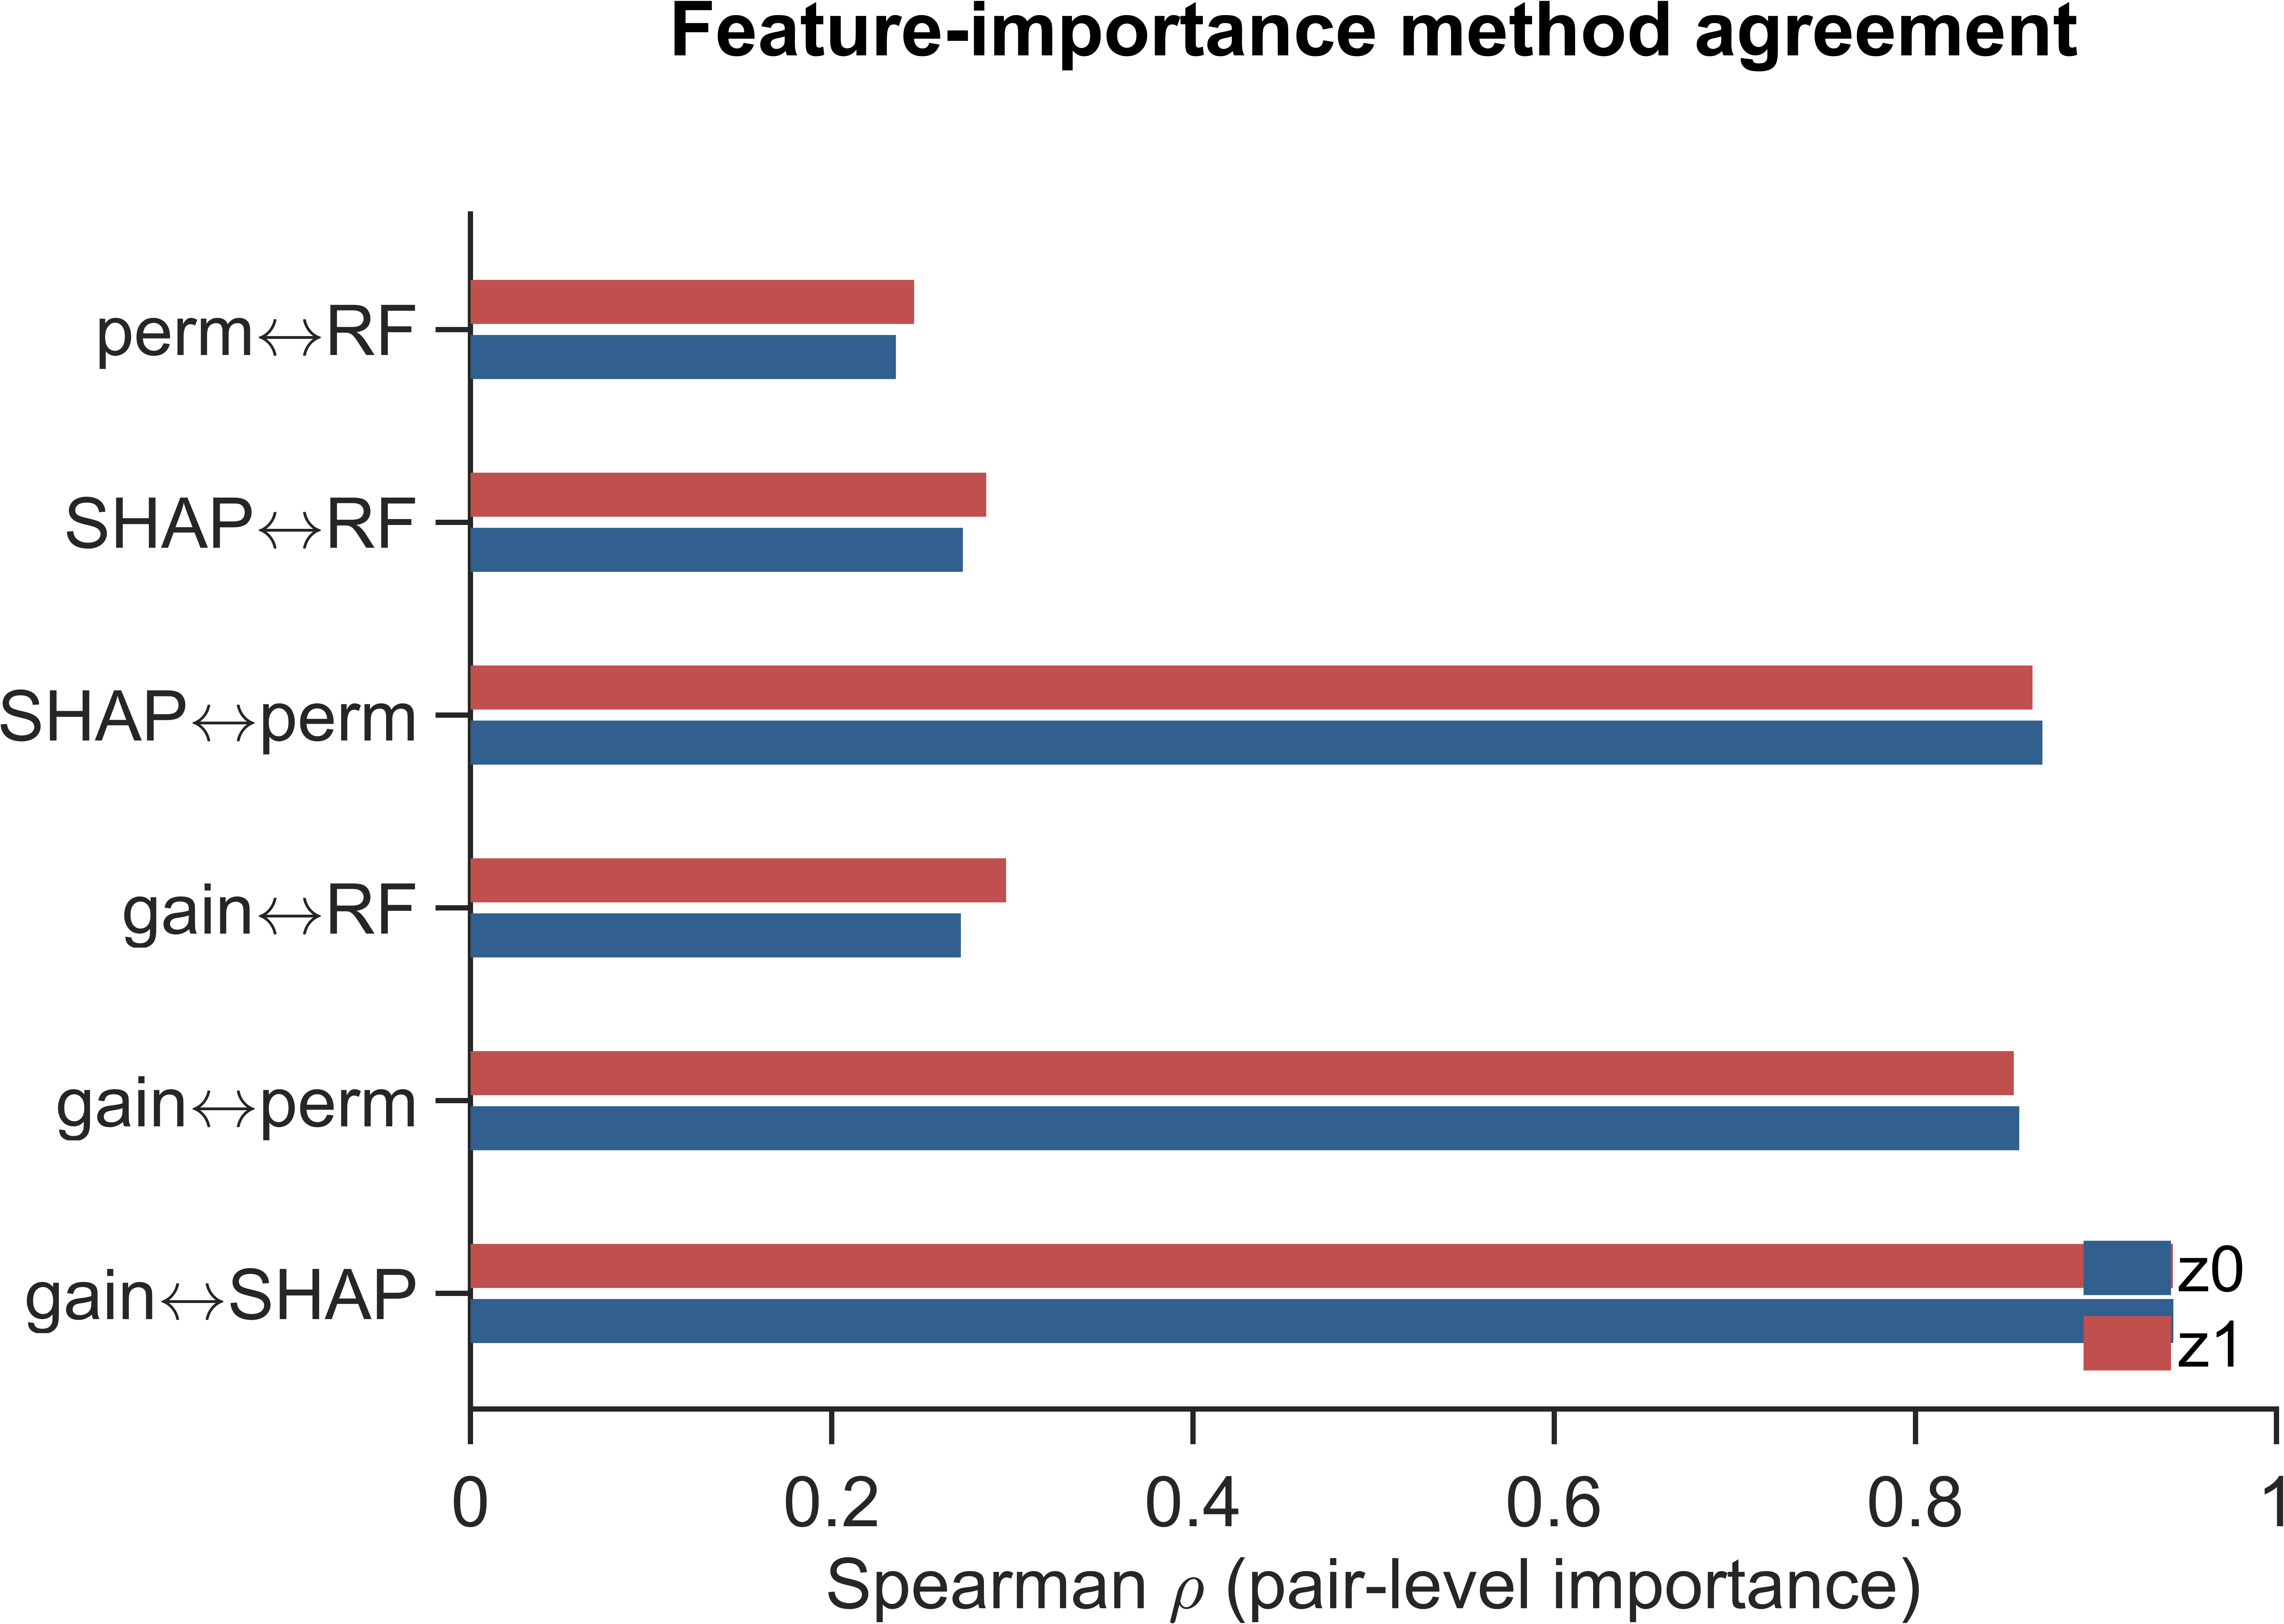
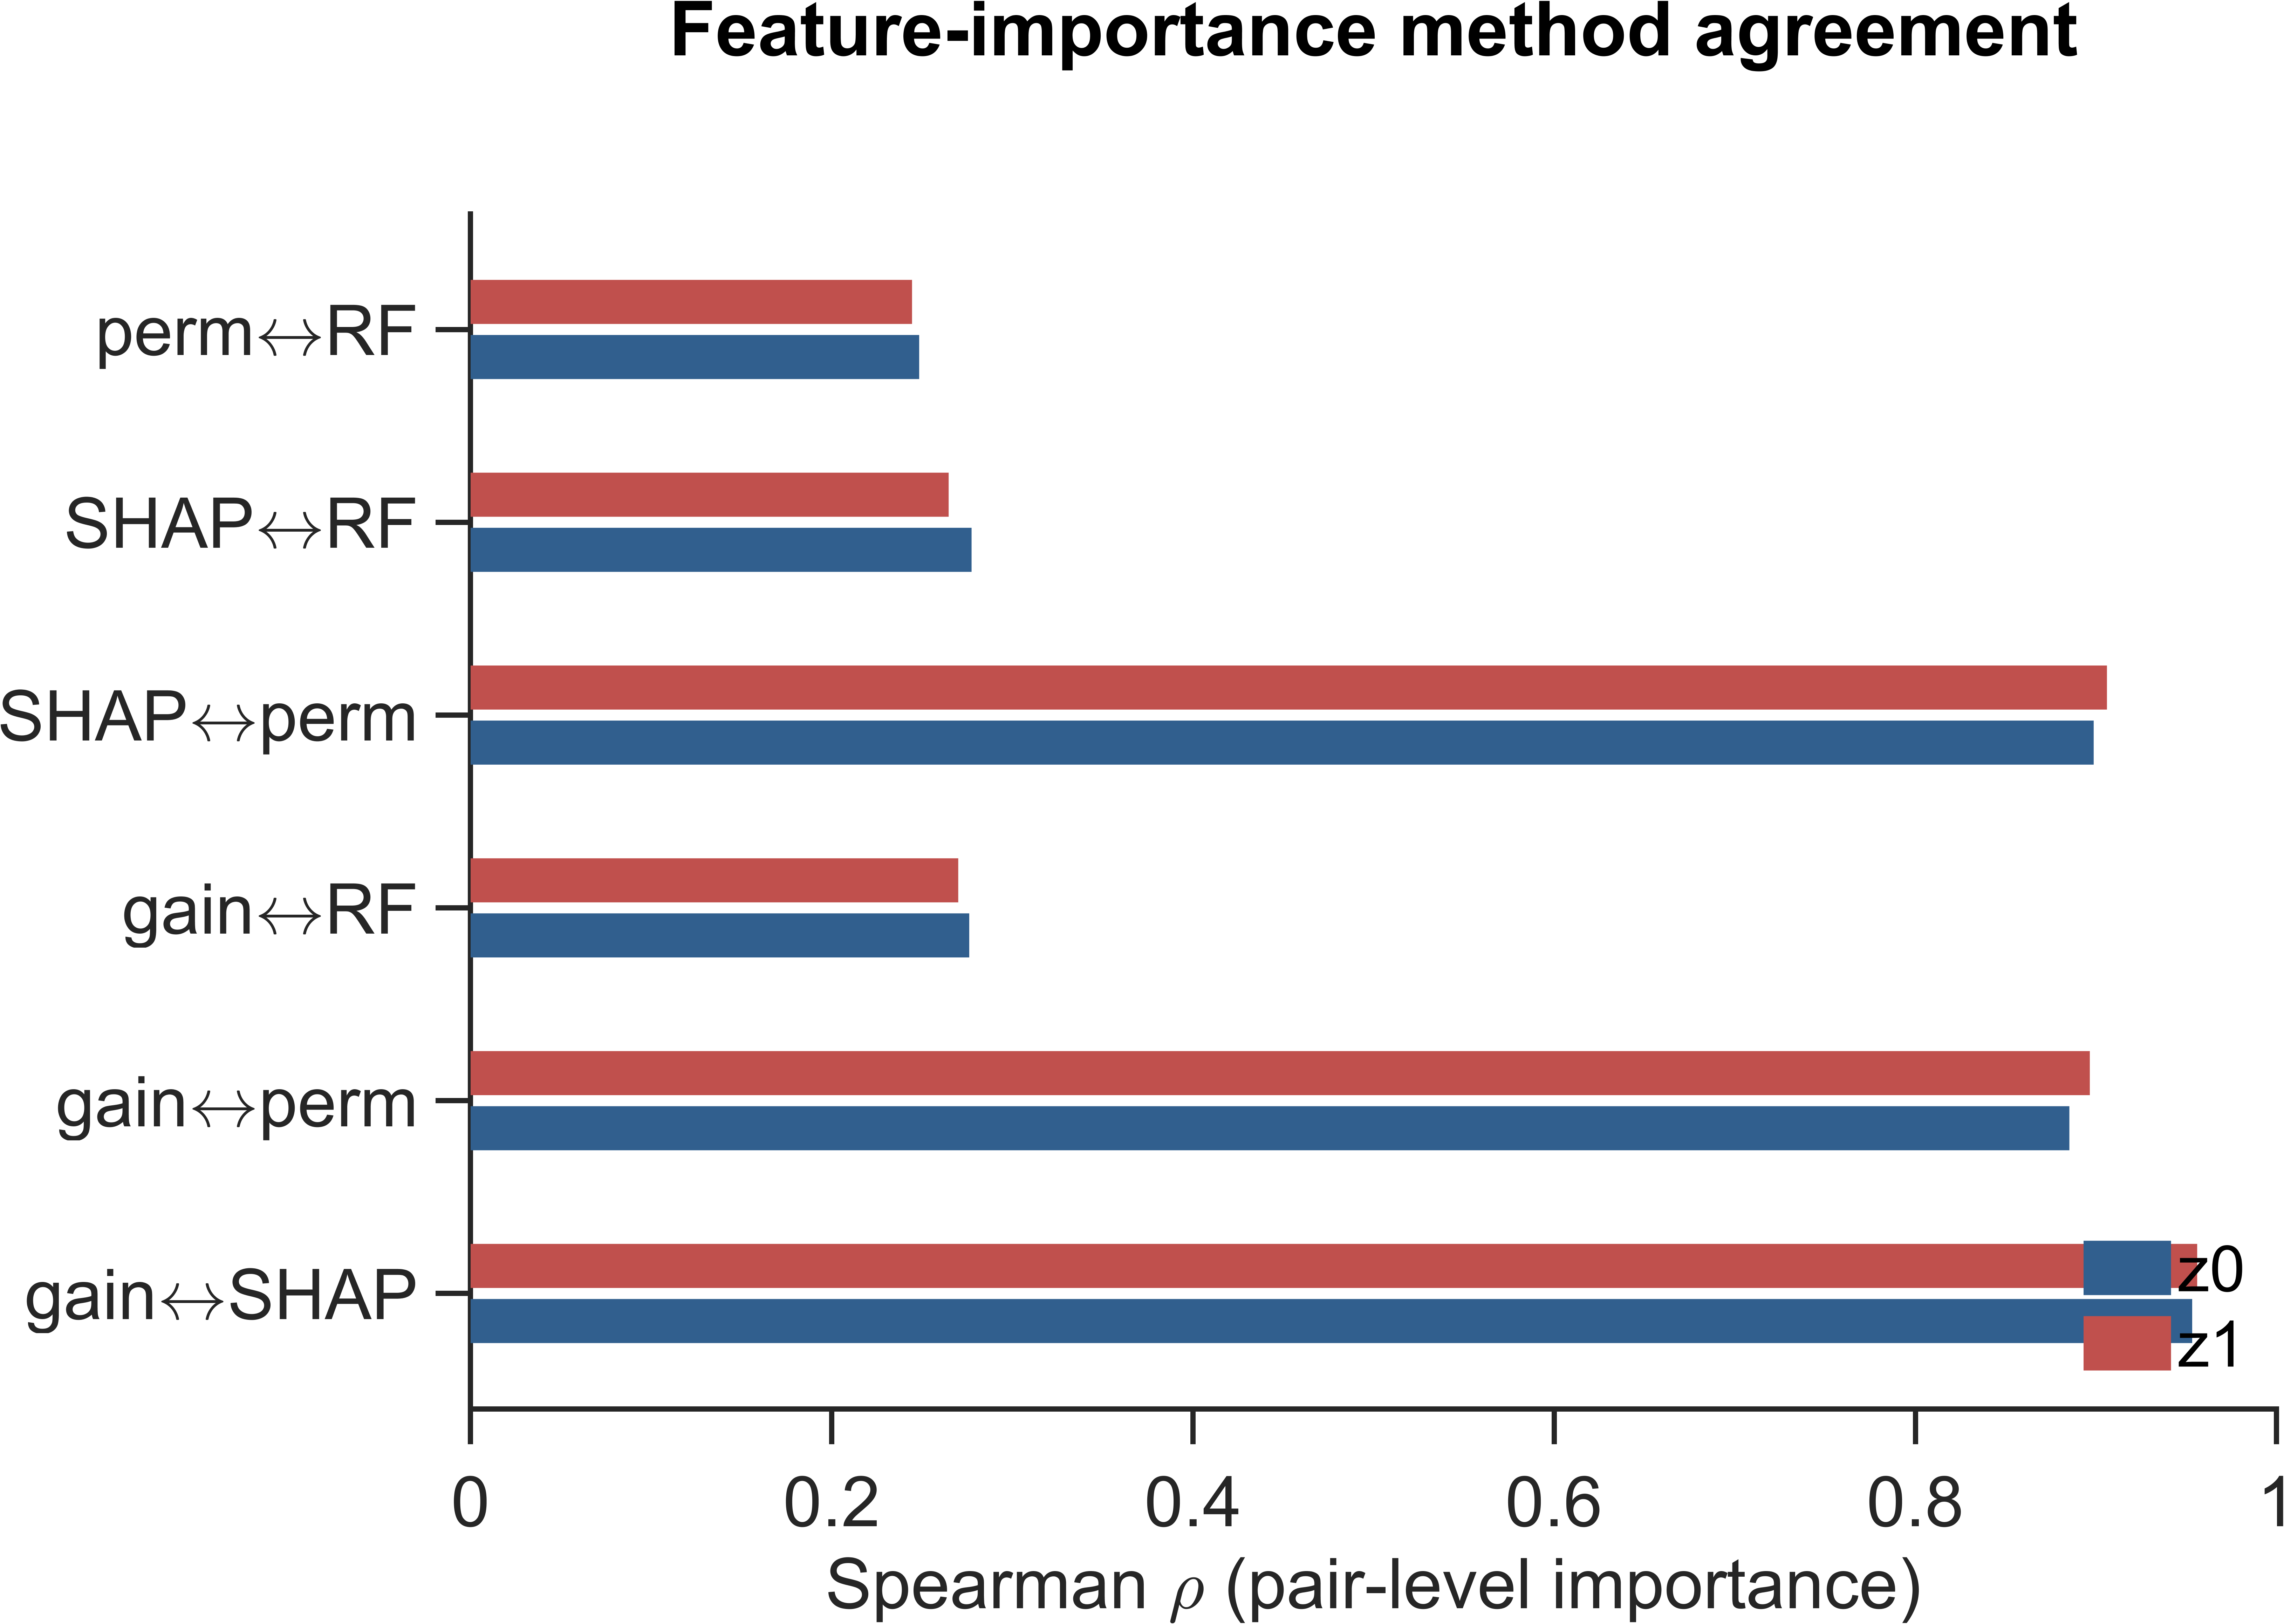
Address external mathematical review: grouped CV, BH correction, E(3) invariance
Statistical corrections following an external maths/stats audit:

- Add code/grouped_cv.py + results/grouped_cv_results.csv. The 90/10 split is by
  chain, so near-duplicate chains of the same protein/deposition straddle it
  (pseudoreplication). Under GroupKFold: random 5-fold 0.894+/-0.005, by PDB entry
  0.859+/-0.010, by gene 0.389+/-0.123. R2=0.915 is an interpolation figure; the
  scaffold->loop mapping is substantially kinase-specific. README/PROVENANCE now
  say so wherever 0.915 appears.
- Mutation screen: 284 populations enumerated, 82 testable, 16 at uncorrected
  p<0.05 but only 7 survive Benjamini-Hochberg q<0.05 (E[false pos] = 4.1 under
  82 tests). Report the BH-corrected count.
- Invariance group is E(3), not SE(3): a distance matrix is invariant to
  reflection too. Documented; "SE(3)" retained only as the model name.
- Table S1 corrected from the complete-map feature-importance rerun: z1's top
  feature is unanimously 525-577 (gatekeeper-preDFG), not an aEF-aG pair.
  z0's 499-641 (aC-aF) is unchanged and still unanimous.
- Cross-method agreement refreshed: residue-level rho 0.76-0.95 (was quoted
  0.86-0.94); pair-level 0.89-0.96 among LightGBM rankings, 0.24-0.28 vs RF.

diff --git a/code/grouped_cv.py b/code/grouped_cv.py
@@ -1,0 +1,36 @@
+"""C4: is the random chain split pseudoreplicated? Compare random vs grouped CV."""
+import sys, numpy as np, pandas as pd
+sys.path.insert(0,"/home/edina/kinase_v91_share/figure_pipeline")
+from predict_v9_lgbm_shap import build_distance_matrix, norm_key
+from sklearn.model_selection import GroupKFold, KFold
+from lightgbm import LGBMRegressor
+from sklearn.metrics import r2_score
+from pathlib import Path
+
+S="/home/edina/kinase_v91_share"
+X, manifest, pairs, frac = build_distance_matrix(
+    Path(f"{S}/data/v9_1_braf_mapped_conserved_residues.csv"),
+    Path(f"{S}/data/manifest_v91.csv"), Path(f"{S}/data/PDBs"),
+    "6UANC", 9999, 0.75)
+lat=pd.read_csv(f"{S}/v91_SE3_latent_seed25.csv",keep_default_na=False)
+lat["chain_key"]=lat["chain_key"].astype(str).str.upper(); lat=lat.set_index("chain_key")
+keys=manifest["chain_key"].astype(str).str.upper().values
+keep=np.array([k in lat.index for k in keys]) & (frac<=0.5)
+X=X[keep]; keys=keys[keep]; man=manifest[keep].reset_index(drop=True)
+Y=lat.loc[list(keys),["z0","z1"]].to_numpy(float)
+col=np.nanmean(X,axis=0); idx=np.where(np.isnan(X)); X[idx]=np.take(col,idx[1])
+print(f"chains={len(X)} features={X.shape[1]}", flush=True)
+
+groups={"random":None,
+        "PDB entry":np.array([k[:4] for k in keys]),
+        "gene":man["gene"].astype(str).values}
+for name,g in groups.items():
+    cv = KFold(5,shuffle=True,random_state=25) if g is None else GroupKFold(5)
+    r2s=[]
+    for tr,te in (cv.split(X) if g is None else cv.split(X,groups=g)):
+        pr=np.column_stack([LGBMRegressor(n_estimators=400,num_leaves=31,verbose=-1,random_state=25)
+                            .fit(X[tr],Y[tr,j]).predict(X[te]) for j in range(2)])
+        ss=((Y[te]-pr)**2).sum(); tot=((Y[te]-Y[te].mean(0))**2).sum()
+        r2s.append(1-ss/tot)
+    r2s=np.array(r2s)
+    print(f"  {name:10s} R2 = {r2s.mean():.3f} +/- {r2s.std():.3f}   folds={np.round(r2s,3)}", flush=True)

diff --git a/README.md b/README.md
@@ -24,10 +24,24 @@ trajectories), tokens, and unrelated analyses.
 | `code/` | core pipeline scripts (dataset → encode → conserved-distance prediction → drug / mutation analyses) |
 
 ## Key results (SE(3) latent, full non-loop conserved scaffold)
-- Conserved-distance → loop-latent prediction **R² = 0.915** (z0 0.939 / z1 0.892), from **128** non-loop residues spanning **both lobes** → **7,455** Cα–Cα distance pairs, **6,523** chains. *(Verified end-to-end 2026-07-16.)*
-- Top predictive distances are **cross-lobe** (αC↔αF 499–641; αEF↔αG 633–702) — the loop's position is read out by the relative arrangement of the two lobes.
-- Four importance methods converge at the residue level (Spearman ρ 0.86–0.94).
-- 16 activation-loop mutations shift significantly; 4 are OncoKB-curated drivers (BRAF V600E, EGFR T790M, FGFR2 K659N, FGFR3 V555M).
+- Conserved-distance → loop-latent prediction **R² = 0.915** (z0 0.939 / z1 0.892) on a **single random chain-level split**, from **128** non-loop residues spanning **both lobes** → **7,455** Cα–Cα distance pairs, **6,523** chains. *(Verified end-to-end 2026-07-16.)*
+- **Read 0.915 as interpolation, not generalisation.** Under grouped cross-validation
+  (`code/grouped_cv.py`, `results/grouped_cv_results.csv`) accuracy degrades monotonically as the
+  grouping tightens: random 5-fold **0.894 ± 0.005** → grouped by PDB entry **0.859 ± 0.010** →
+  **grouped by gene 0.389 ± 0.123**. The scaffold→loop relationship is real (whole depositions held
+  out still gives 0.859) but a substantial component of it is **kinase-specific rather than
+  transferable**. Quote the gene-grouped number for "predict a novel kinase".
+- Top predictive distances are **cross-lobe**: αC↔αF 499–641 is rank 1 for z0 under all four
+  importance methods; for z1 the top pair is the intra-N-lobe gatekeeper–preDFG 525–577, with
+  cross-lobe αEF contacts (633–702, 574–633) immediately below.
+- Four importance methods converge at the residue level (Spearman ρ 0.76–0.95); at the individual-pair
+  level the three LightGBM-derived rankings agree (ρ 0.89–0.96) and RF impurity is the outlier (0.24–0.28).
+- 16 activation-loop mutations shift at uncorrected permutation p<0.05, of which **7 survive
+  Benjamini–Hochberg q<0.05** across the 82 testable populations; 4 are OncoKB-curated drivers
+  (BRAF V600E, EGFR T790M, FGFR2 K659N, FGFR3 V555M).
+- Because the encoder consumes only interatomic distances, the invariance group is the **full
+  Euclidean group E(3)** (rotation, translation *and reflection*), not SE(3); the "SE(3)" label is
+  retained only for continuity with the model name.
 - Nearest-neighbour structural validation 99% closer than random; BRAF + FGFR2 MD ensembles re-projected through the SE(3) encoder.
 
 ## Reproducing figures

diff --git a/PROVENANCE.md b/PROVENANCE.md
@@ -8,7 +8,7 @@ Everything lives in one shared, self-contained folder:
 ```
 SHARE=/home/edina/kinase_v91_share        # world-readable; 5.6 GB; no other location needed
 ```
-**Verified end-to-end 2026-07-16** — a clean rerun from these files reproduces R² = 0.915.
+**Verified end-to-end 2026-07-16** — a clean rerun from these files reproduces R² = 0.915 on a single random chain-level split. See `code/grouped_cv.py` before quoting that number as generalisation: it falls to 0.859 (PDB-grouped) and 0.389 (gene-grouped).
 
 ---
 
@@ -111,8 +111,18 @@ SHARE=/home/edina/kinase_v91_share        # world-readable; 5.6 GB; no other loc
         ▼
   128 residues → C(128,2) = 8,128 candidate pairs → **7,455** pass ≥75% coverage
   6,531 chains → 0 unmapped + 8 (>50% imputed) → **6,523** used (train 5,871 / test 652)
-  ► **R² = 0.915**  (z0 0.939 · z1 0.892)
+  ► **R² = 0.915**  (z0 0.939 · z1 0.892)  ← SINGLE RANDOM CHAIN-LEVEL SPLIT
   ► lgbm_residue_importance.csv · lgbm_shap_top.csv · lgbm_summary.csv
+
+        │ ► grouped_cv.py  ★ REQUIRED before quoting any R² as generalisation
+        ▼
+  Same model, stricter validation (grouped_cv_results.csv):
+      random 5-fold ......... 0.894 ± 0.005
+      grouped by PDB entry .. 0.859 ± 0.010   (whole depositions held out)
+      grouped by gene ....... 0.389 ± 0.123   (entire kinases held out)
+  ► 0.915 is an INTERPOLATION figure. The PDB contains many near-duplicate chains of the
+    same protein and same deposition, so a random chain split is pseudoreplicated.
+    Use 0.859 for "unseen deposition" and 0.389 for "unseen kinase".
 
         │ ► eval_v9_fi_extended.py --ape-resi-floor 9999 → extended_fi_table.csv
         │ ► fi_methods_agreement.py / fi_methods_deeper.py → cross-method Spearman ρ
@@ -153,7 +163,7 @@ SHARE=/home/edina/kinase_v91_share        # world-readable; 5.6 GB; no other loc
 | candidate pairs | 8,128 | floor ≠ 9999 |
 | features | **7,455** | 2,537 ⇒ floor 624 (N-lobe only) · 5,685 ⇒ incomplete map |
 | chains used | **6,523** | check PDB coverage |
-| **Combined R²** | **0.915** | see the superseded table below |
+| **Combined R²** | **0.915** (single random split; 0.859 PDB-grouped, 0.389 gene-grouped — see `grouped_cv.py`) | see the superseded table below |
 
 ### Superseded numbers you may encounter
 | number | what it was | why not to use |